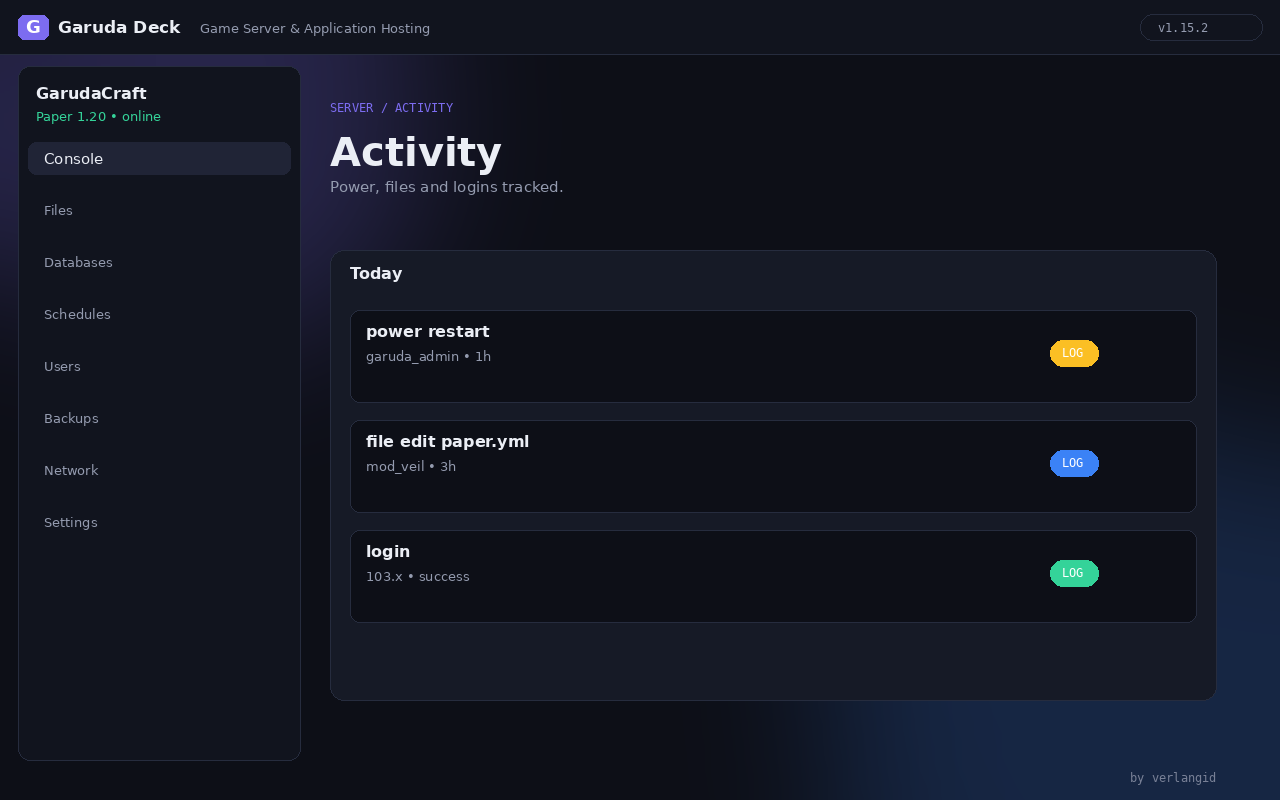
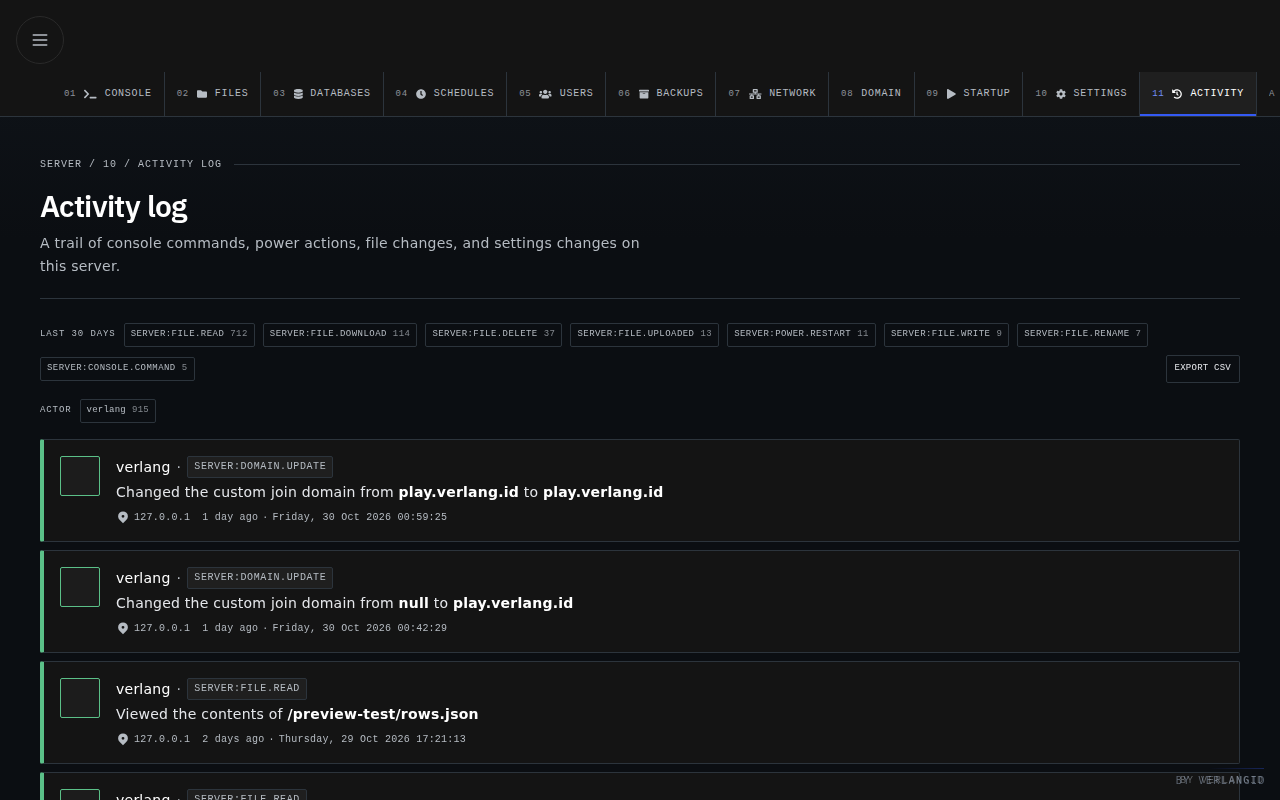
Ganti semua preview dengan screenshot realtime live Garuda Deck panel dan server

diff --git a/README.md b/README.md
@@ -69,7 +69,7 @@ Private repo keeps full build, payload, and release pipeline. Public repo never 
 |---|---|---|
 | ![admin](preview/panel/07-admin-overview.png) | ![users](preview/panel/10-admin-users.png) | ![servers](preview/panel/11-admin-servers.png) |
 
-Full sets: [preview/panel/ 16 shots: login, dashboard, account, api, ssh, activity, admin](preview/panel/), [preview/server/ 13 shots: console, files, editors, databases, schedules, users, backups, network, settings, startup, activity](preview/server/).
+Full sets: [preview/panel/ 17 shots: login, dashboard live Telegram project, account, api, ssh, activity, admin](preview/panel/), [preview/server/ 13 shots: console live Telegram project, files, editors, databases, schedules, users, backups, network, settings, startup, activity](preview/server/). All screenshots captured realtime from live Garuda Deck 1.15.2.
 
 ## Requirements / Syarat
 
